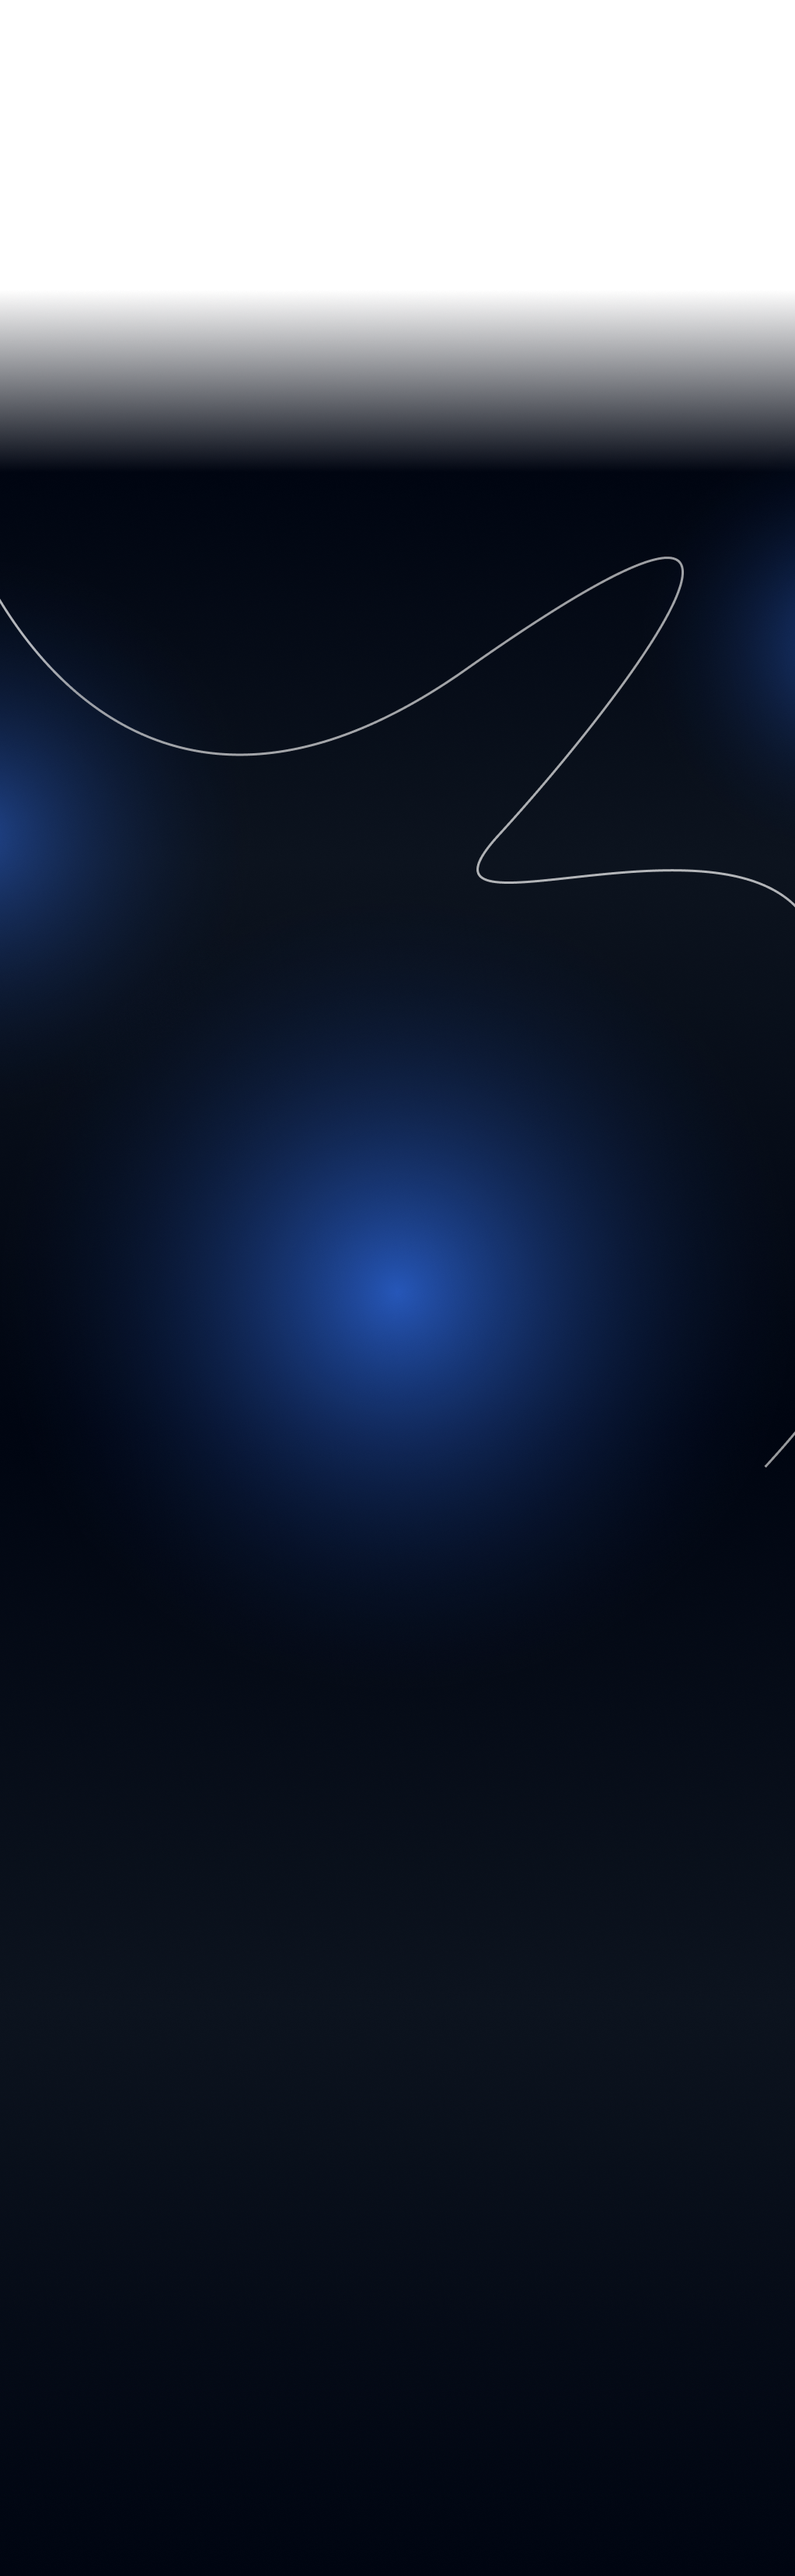
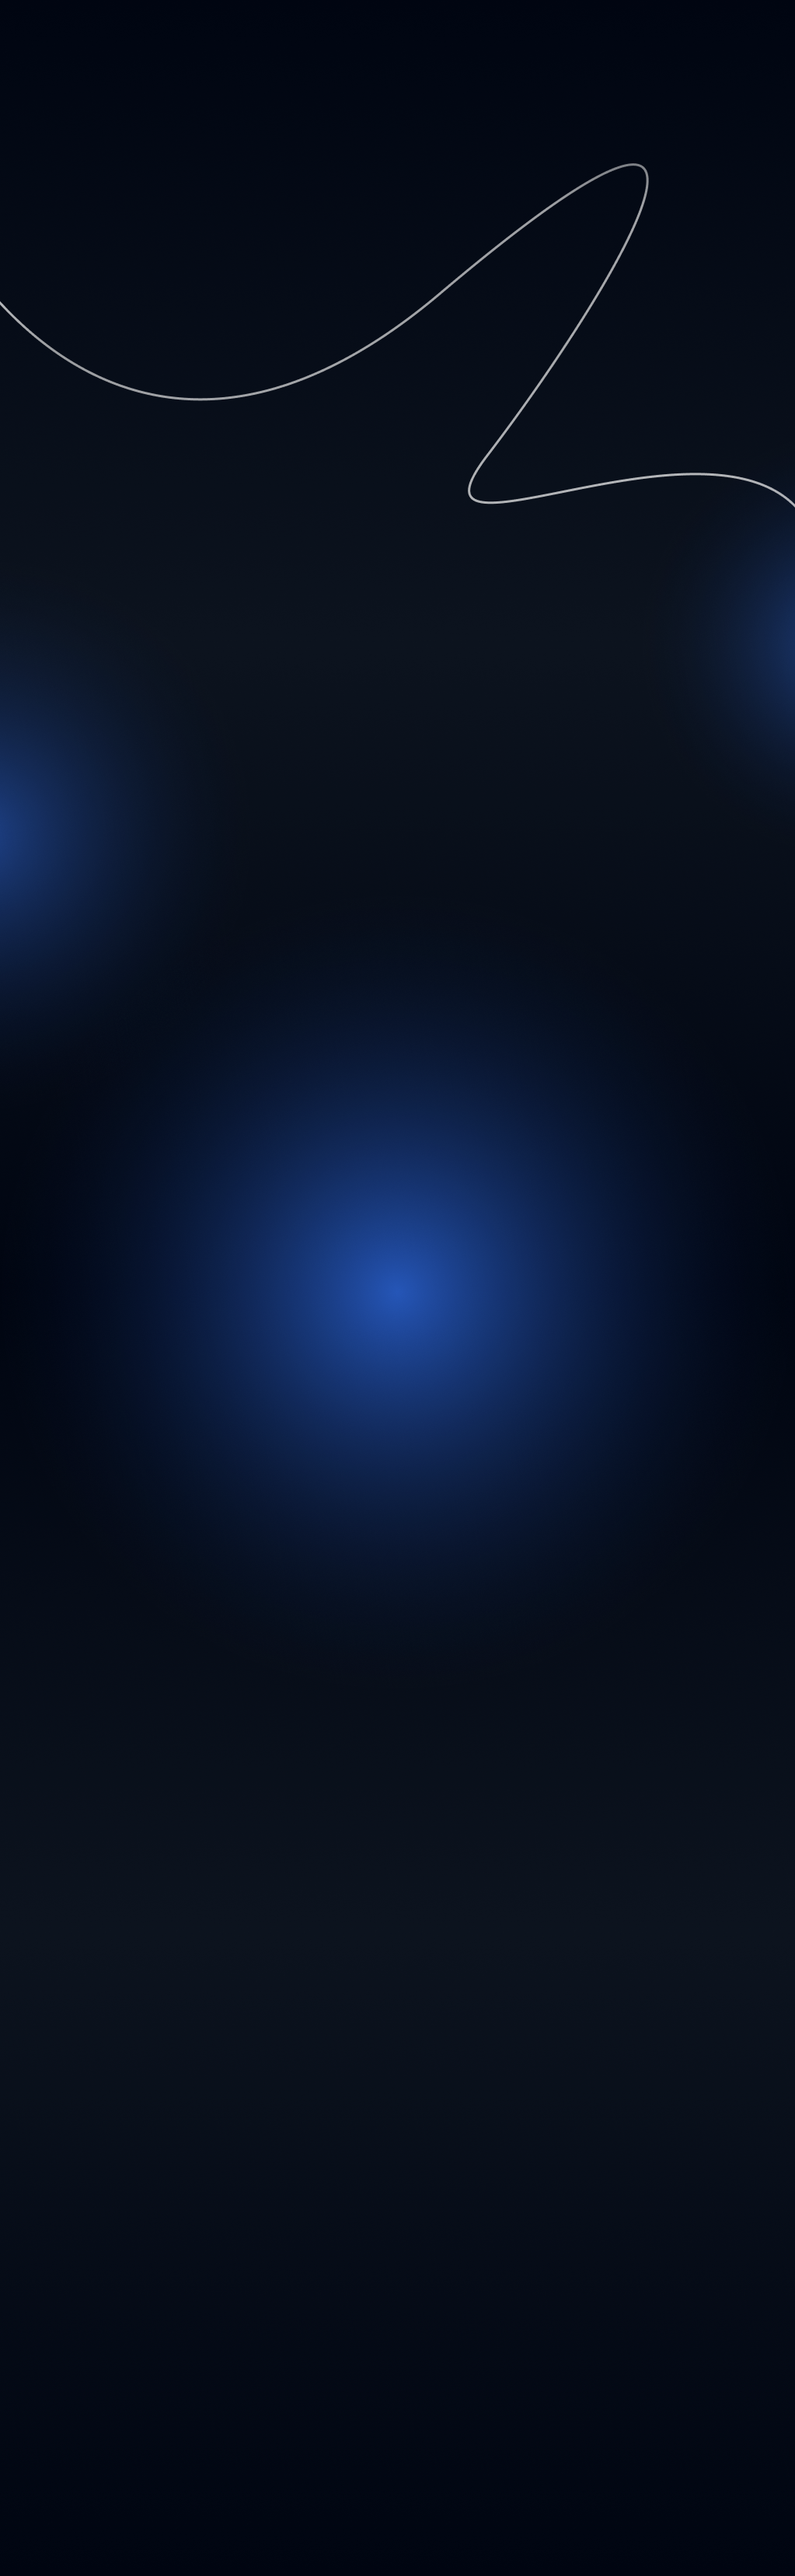
Mobile hero responsive + animations fix

Changed region(s): [[0.0, 0.0, 1.0, 0.1865]]

diff --git a/components/Hero.tsx b/components/Hero.tsx
@@ -113,7 +113,7 @@ const scrollToSection = (id: string) => {
         className="absolute inset-0 transition-transform duration-300 ease-out z-0"
         style={{
           transform: isMobile
-  ? `scale(${BACKGROUND_SCALE}) translateY(-40px)`
+  ? `scale(${BACKGROUND_SCALE})`
   : `translate(${position.x}px, ${position.y}px) scale(${BACKGROUND_SCALE})`,
           filter: `blur(${BACKGROUND_BLUR}px)`
         }}
@@ -140,22 +140,8 @@ const scrollToSection = (id: string) => {
         }}
       />
 
-      {/* 🧭 NAVBAR */}
-      <nav className={`relative z-[100] px-7 py-6 flex justify-between items-center transition-all duration-1000 ${
-        loaded ? "opacity-100 translate-y-0" : "opacity-0 -translate-y-10"
-      }`}>
-        <div className="font-extrabold text-lg">
-          Vikings Estudio
-        </div>
-        <div className={`${isMobile ? "hidden" : "flex"} gap-10 text-sm font-semibold`}>
-          <button onClick={() => scrollToSection("services")} className="hover:opacity-70 transition">Servicios</button>
-          <button onClick={() => scrollToSection("portfolio")} className="hover:opacity-70 transition">Portafolio</button>
-          <button onClick={() => scrollToSection("contact")} className="hover:opacity-70 transition">Contacto</button>
-        </div>
-      </nav>
-
       <div className={`relative min-h-screen flex flex-col items-center ${
-  isMobile ? "justify-start px-6 pt-20" : "justify-center"
+  isMobile ? "justify-start px-6 pt-28" : "justify-center"
 }`}>
 
         {/* 🏛 ESTATUA */}
@@ -168,7 +154,7 @@ const scrollToSection = (id: string) => {
           }}
           className={`
   z-10 transition-all duration-[1400ms] ease-out
-  ${isMobile ? "relative mt-10" : "absolute"}
+  ${isMobile ? "relative mt-6" : "absolute"}
   ${loaded ? "opacity-100 translate-y-0" : "opacity-0 translate-y-20"}
 `}
         />
@@ -247,7 +233,7 @@ const scrollToSection = (id: string) => {
         <div
           className={`z-30 flex gap-6 ${
   isMobile
-    ? "flex-col items-center mt-6"
+    ? "flex-col items-center mt-4"
     : "absolute"
 }`}
 style={

diff --git a/components/SectionBackground.tsx b/components/SectionBackground.tsx
@@ -33,7 +33,7 @@ useEffect(() => {
   /* ============================= */
 
   /* 🔢 SERVICIOS */
-  const SERVICES_Y = 140;
+  const SERVICES_Y = isMobile ? 0 : 140;
   const SERVICES_SIZE = 14;
 
   const SERVICE_1_X = -280;
@@ -49,7 +49,7 @@ useEffect(() => {
   const SERVICE_4_Y = -300;
 
   /* 🎨 FONDO SECCIONES */
-  const SECTION_BG_Y = isMobile ? -400 : -1050;
+  const SECTION_BG_Y = -1050;
   const SECTION_BG_SCALE = 1;
   const SECTION_BG_OPACITY = 1;
 
@@ -58,13 +58,15 @@ useEffect(() => {
   /* ============================= */
 
   return (
-    <section className="absolute top-0 left-0 w-full h-[200vh] pointer-events-none">
+    <section className="relative w-full pointer-events-none pt-10 md:pt-0">
 
       {/* Fondo nuevo */}
       <div
         className="absolute inset-0 -z-10 pointer-events-none"
         style={{
-          transform: `translateY(${SECTION_BG_Y}px) scale(${SECTION_BG_SCALE})`,
+          transform: isMobile
+  ? "none"
+  : `translateY(${SECTION_BG_Y}px) scale(${SECTION_BG_SCALE})`,
           opacity: SECTION_BG_OPACITY,
           zIndex: isMobile ? 0 : 20
         }}
@@ -78,7 +80,9 @@ useEffect(() => {
 
       {/* 🔢 SERVICIOS */}
       <div
-        style={{ transform: `translateY(${SERVICES_Y}px)` }}
+        style={{
+  transform: isMobile ? "none" : `translateY(${SERVICES_Y}px)`
+}}
         className={`relative z-[30] w-full pb-32 ${
   isMobile
     ? "flex flex-col items-center gap-8"

diff --git a/components/Navbar.tsx b/components/Navbar.tsx
@@ -41,7 +41,7 @@ export default function Navbar() {
   }, [open]);
 
   return (
-    <nav className="fixed w-full bg-[#1F2127]/90 backdrop-blur-md z-50 px-6 py-4 flex justify-between items-center">
+    <nav className="fixed w-full bg-black/40 backdrop-blur-lg backdrop-blur-md z-50 px-6 py-4 flex justify-between items-center">
       
       <div className="text-2xl font-bold text-white">
         Vikings Estudio
